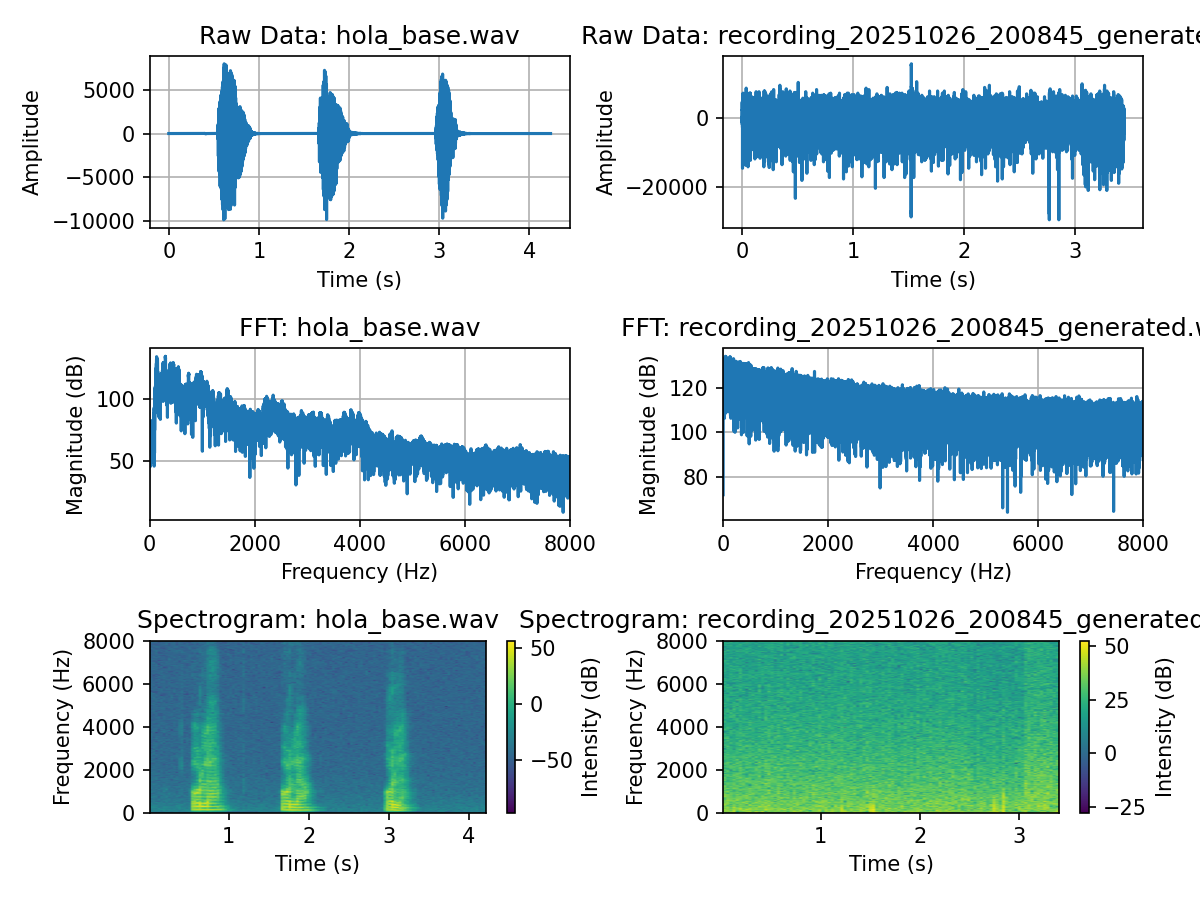
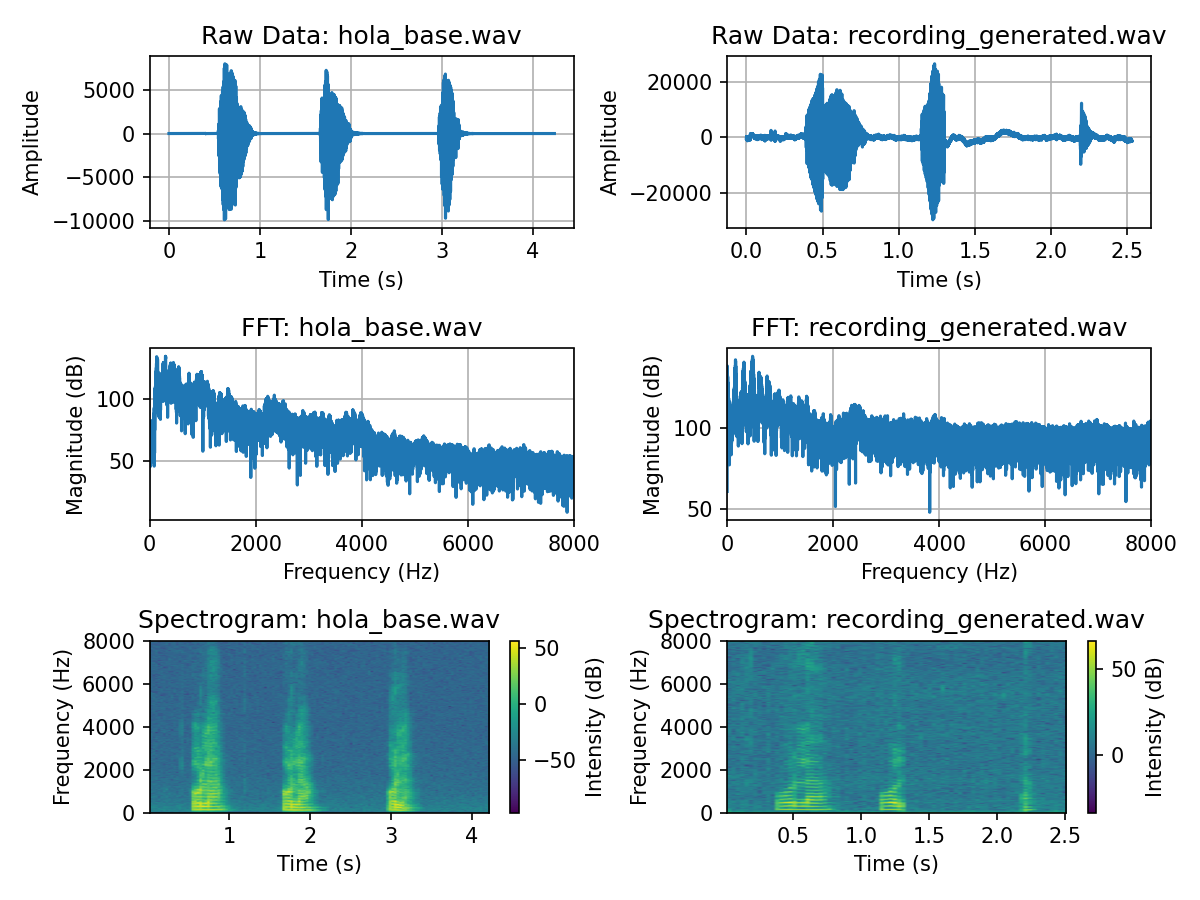
Modify adc buffer size and queue size. Improves recreation of audio with short words

diff --git a/python/audio_processing.py b/python/audio_processing.py
@@ -150,8 +150,8 @@ def analyze_fft(csv_path: str, sample_rate: int = SAADC_SAMPLE_RATE):
 
 
 def process_csv_to_wav():
-    csv_file = "recording_20251026_200845.csv"
-    output_file = "recording_20251026_200845_generated.wav"
+    csv_file = f"{name}.csv"
+    output_file = f"{name}.wav"
 
     samples, none_count = analyze_csv(csv_file)
     create_audio(samples, output_file, sample_rate=SAADC_SAMPLE_RATE)
@@ -159,7 +159,7 @@ def process_csv_to_wav():
 
 def process_wav_to_csv():
     wav_to_csv("hola_base.wav", "hola_base.csv")
-    wav_to_csv("recording_20251026_200845_generated.wav", "recording_20251026_200845_generated.csv")
+    wav_to_csv(f"{name}.wav", f"{name}_generated.csv")
 
     # Read raw data
     samples1: List[int] = []
@@ -170,7 +170,7 @@ def process_wav_to_csv():
         for row in reader:
             samples1.append(int(row['sample']))
 
-    with open("recording_20251026_200845_generated.csv", 'r') as f:
+    with open(f"{name}_generated.csv", 'r') as f:
         reader = csv.DictReader(f)
         for row in reader:
             samples2.append(int(row['sample']))
@@ -180,7 +180,7 @@ def process_wav_to_csv():
 
     # Compute FFT
     freq1, mag1 = analyze_fft("hola_base.csv", sample_rate=SAADC_SAMPLE_RATE)
-    freq2, mag2 = analyze_fft("recording_20251026_200845_generated.csv", sample_rate=SAADC_SAMPLE_RATE)
+    freq2, mag2 = analyze_fft(f"{name}_generated.csv", sample_rate=SAADC_SAMPLE_RATE)
 
     # Create time axis (in seconds)
     time1 = np.arange(len(samples1_array)) / SAADC_SAMPLE_RATE* 1.0
@@ -199,7 +199,7 @@ def process_wav_to_csv():
 
     plt.subplot(3, 2, 2)
     plt.plot(time2, samples2_array)
-    plt.title("Raw Data: recording_20251026_200845_generated.wav")
+    plt.title(f"Raw Data: {name}_generated.wav")
     plt.xlabel("Time (s)")
     plt.ylabel("Amplitude")
     plt.grid(True)
@@ -215,7 +215,7 @@ def process_wav_to_csv():
 
     plt.subplot(3, 2, 4)
     plt.plot(freq2, mag2)
-    plt.title("FFT: recording_20251026_200845_generated.wav")
+    plt.title(f"FFT: {name}_generated.wav")
     plt.xlabel("Frequency (Hz)")
     plt.ylabel("Magnitude (dB)")
     plt.grid(True)
@@ -232,7 +232,7 @@ def process_wav_to_csv():
 
     plt.subplot(3, 2, 6)
     plt.specgram(samples2_array, Fs=SAADC_SAMPLE_RATE, NFFT=1024, noverlap=512, cmap='viridis')
-    plt.title("Spectrogram: recording_20251026_200845_generated.wav")
+    plt.title(f"Spectrogram: {name}_generated.wav")
     plt.xlabel("Time (s)")
     plt.ylabel("Frequency (Hz)")
     plt.ylim(0, 8000)
@@ -245,6 +245,7 @@ def process_wav_to_csv():
 
 
 if __name__ == "__main__":
+    name = "recording"
 
     if len(sys.argv) < 2:
         print("Usage: python audio_processing.py [all|2csv|2wav]")

diff --git a/src/main.c b/src/main.c
@@ -30,7 +30,7 @@ LOG_MODULE_REGISTER(RAISE_mic, LOG_LEVEL_DBG);
 #define SAADC_INPUT_PIN NRF_SAADC_INPUT_AIN4
 static nrfx_saadc_channel_t channel = NRFX_SAADC_DEFAULT_CHANNEL_SE(SAADC_INPUT_PIN, 0);
 #define SAADC_SAMPLE_INTERVAL_US 62.5 // 16k Hz sample rate
-#define SAADC_BUFFER_SIZE 2000  // 2000 samples = 250ms of audio at 8kHz, uses 8KB RAM total
+#define SAADC_BUFFER_SIZE 6000  // 2000 samples = 250ms of audio at 8kHz, uses 8KB RAM total
 static int16_t saadc_sample_buffer[2][SAADC_BUFFER_SIZE];
 static uint32_t saadc_current_buffer = 0;
 //Timer
@@ -73,7 +73,7 @@ struct buffer_msg {
 };
 
 // Message queue - holds up to 4 buffer messages (queue full = dropping audio data)
-#define BUFFER_QUEUE_SIZE 4
+#define BUFFER_QUEUE_SIZE 8
 K_MSGQ_DEFINE(buffer_msgq, sizeof(struct buffer_msg), BUFFER_QUEUE_SIZE, 4);
 
 // Work item for BLE transmission (runs in thread context, not ISR)
@@ -95,7 +95,7 @@ static struct {
 };
 
 // BLE packet configuration
-#define SAMPLES_PER_PACKET 50   // Send 50 samples per BLE packet (100 bytes + 6 byte header)
+#define SAMPLES_PER_PACKET 100   // Send 50 samples per BLE packet (100 bytes + 6 byte header)
 #define PACKET_HEADER_SIZE 6    // 4 bytes seq_num + 2 bytes sample_count
 
 // Forward declaration

diff --git a/python/struc_recording.py b/python/struc_recording.py
@@ -341,7 +341,8 @@ class RAISEApp(QWidget):
 
         # File base name
         now = datetime.now().strftime("%Y%m%d_%H%M%S")
-        base = f"recording_{now}"
+        # base = f"recording_{now}"
+        base = f"recording"
 
         # 1) Save CSV with new format
         csv_name = f"{base}.csv"
